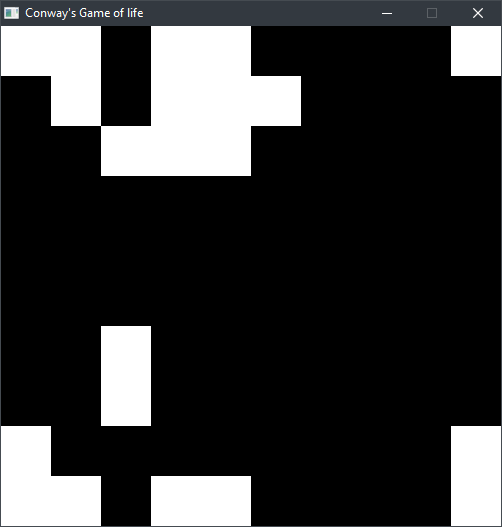
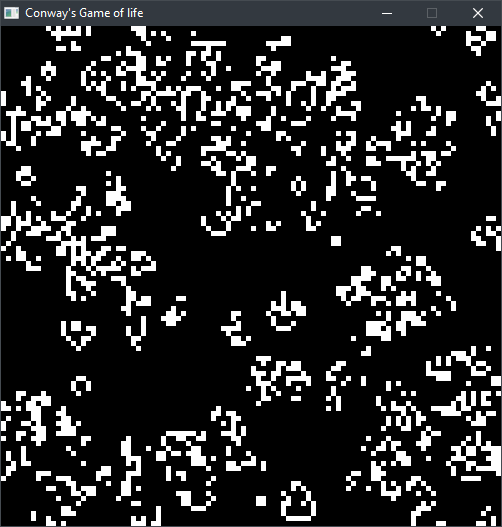
Update

diff --git a/objects.go b/objects.go
@@ -107,8 +107,8 @@ func (c *cell) liveNeighbors(cells [][]*cell) int {
 }
 
 const (
-	rows    = 10
-	columns = 10
+	rows    = 100
+	columns = 100
 )
 
 const threshold = 0.15 //chance of starting alive
@@ -116,7 +116,7 @@ const threshold = 0.15 //chance of starting alive
 func MakeCells() [][]*cell {
 	rand.Seed(time.Now().UnixNano())
 
-	cells := make([][]*cell, rows, rows)
+	cells := make([][]*cell, rows, columns)
 	for x := 0; x < rows; x++ {
 		for y := 0; y < columns; y++ {
 			c := newCell(x, y)
